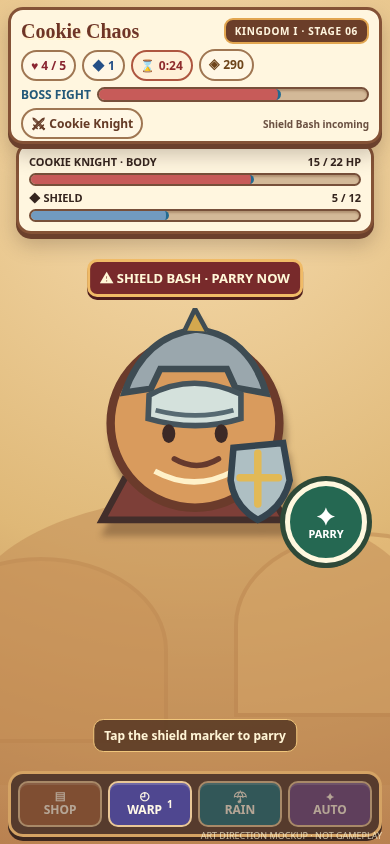
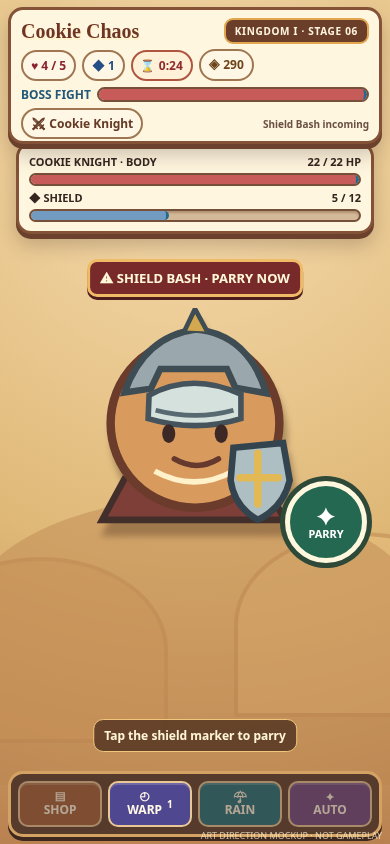
feat: redesign Cookie Kingdom game assets

Changed region(s): [[0.6462, 0.1848, 0.9231, 0.2156], [0.7077, 0.0924, 0.9538, 0.1232]]

diff --git a/docs/m10-a/preview.html b/docs/m10-a/preview.html
@@ -40,7 +40,7 @@
   </div><div class="shop-tip">Selected tab is raised. Unavailable actions show the reason; the shop pauses gameplay.</div></div><span class="footer-note">ART DIRECTION MOCKUP · NOT GAMEPLAY</span>
 </section>
 
-<section class="screen mobile boss" data-screen="boss-mobile"><div class="world"><div class="hill one"></div><div class="hill two"></div></div><header class="ui hud plaque"><div class="hud-top"><div class="brand">Cookie Chaos</div><div class="ribbon">KINGDOM I · STAGE 06</div></div><div class="hud-stats"><span class="pill health">♥ 4 / 5</span><span class="pill shield">◆ 1</span><span class="pill timer">⌛ 0:24</span><span class="pill currency">◈ 290</span></div><div class="hud-progress"><strong>BOSS FIGHT</strong><div class="bar healthbar"><i style="width:68%"></i></div></div><div class="hud-top"><span class="pill tough">⚔ Cookie Knight</span><span class="tiny">Shield Bash incoming</span></div></header><div class="arena"><div class="boss-bars plaque"><div class="line"><span>COOKIE KNIGHT · BODY</span><span>15 / 22 HP</span></div><div class="bar healthbar"><i style="width:68%"></i></div><div class="line"><span>◆ SHIELD</span><span>5 / 12</span></div><div class="bar shieldbar"><i style="width:42%"></i></div></div><div class="telegraph">⚠ SHIELD BASH · PARRY NOW</div><svg class="boss-knight" role="img" aria-label="Cookie Knight with metal helmet and shield"><use href="#boss-knight"/></svg><div class="parry" role="button" aria-label="Parry target"><span><b>✦</b><br>PARRY</span></div></div><div class="hint">Tap the shield marker to parry</div><nav class="dock"><div class="action shop" aria-disabled="true">▤<br>SHOP</div><div class="action warp">◴<br>WARP <small>1</small></div><div class="action rain" aria-disabled="true">☂<br>RAIN</div><div class="action auto" aria-disabled="true">✦<br>AUTO</div></nav><span class="footer-note">ART DIRECTION MOCKUP · NOT GAMEPLAY</span></section>
+<section class="screen mobile boss" data-screen="boss-mobile"><div class="world"><div class="hill one"></div><div class="hill two"></div></div><header class="ui hud plaque"><div class="hud-top"><div class="brand">Cookie Chaos</div><div class="ribbon">KINGDOM I · STAGE 06</div></div><div class="hud-stats"><span class="pill health">♥ 4 / 5</span><span class="pill shield">◆ 1</span><span class="pill timer">⌛ 0:24</span><span class="pill currency">◈ 290</span></div><div class="hud-progress"><strong>BOSS FIGHT</strong><div class="bar healthbar"><i style="width:100%"></i></div></div><div class="hud-top"><span class="pill tough">⚔ Cookie Knight</span><span class="tiny">Shield Bash incoming</span></div></header><div class="arena"><div class="boss-bars plaque"><div class="line"><span>COOKIE KNIGHT · BODY</span><span>22 / 22 HP</span></div><div class="bar healthbar"><i style="width:100%"></i></div><div class="line"><span>◆ SHIELD</span><span>5 / 12</span></div><div class="bar shieldbar"><i style="width:42%"></i></div></div><div class="telegraph">⚠ SHIELD BASH · PARRY NOW</div><svg class="boss-knight" role="img" aria-label="Cookie Knight with metal helmet and shield"><use href="#boss-knight"/></svg><div class="parry" role="button" aria-label="Parry target"><span><b>✦</b><br>PARRY</span></div></div><div class="hint">Tap the shield marker to parry</div><nav class="dock"><div class="action shop" aria-disabled="true">▤<br>SHOP</div><div class="action warp">◴<br>WARP <small>1</small></div><div class="action rain" aria-disabled="true">☂<br>RAIN</div><div class="action auto" aria-disabled="true">✦<br>AUTO</div></nav><span class="footer-note">ART DIRECTION MOCKUP · NOT GAMEPLAY</span></section>
 
 <section class="screen desktop" data-screen="gameplay-desktop"><div class="play"><div class="world"><div class="hill one"></div><div class="hill two"></div><span class="spark" style="left:11%;top:26%">✧</span><span class="spark" style="left:66%;top:35%">✦</span></div><header class="ui hud plaque"><div class="hud-top"><div class="brand">Cookie Chaos</div><div class="ribbon">KINGDOM I · STAGE 09</div><span class="pill timer">⌛ 0:42</span></div><div class="hud-stats"><span class="pill health">♥ 4 / 5</span><span class="pill shield">◆ 1</span><span class="pill currency">◈ 100 Cookies</span><span class="pill tough">✦ Tough 1 / 2</span></div><div class="hud-progress"><strong>48 / 63 STAGE POINTS</strong><div class="bar"><i style="width:76%"></i></div><span class="tiny">Break 1 more Tough Cookie</span></div></header><div class="cookie normal a"><svg><use href="#cookie-normal"/></svg></div><div class="cookie golden"><svg><use href="#cookie-golden"/></svg></div><div class="cookie hard"><svg><use href="#cookie-hard"/></svg></div><div class="cookie reinforced"><svg><use href="#cookie-reinforced"/></svg></div><div class="cookie titan"><svg><use href="#cookie-titan"/></svg></div><div class="cookie bomb"><svg><use href="#cookie-bomb"/></svg></div><span class="cookie-label bombnote">! AVOID</span><div class="hint">+8 SP · +112 Cookies</div><nav class="dock"><div class="action shop">▤ SHOP</div><div class="action rain">☂ RAIN <small>2</small></div><div class="action auto">✦ AUTO <small>1</small></div><div class="action warp">◴ WARP <small>1</small></div></nav></div><aside class="shop-panel"><div class="shop-head"><div><div class="ribbon" style="display:inline-block;margin-bottom:4px">KINGDOM MARKET</div><div class="brand">Upgrades</div></div><button class="close" aria-label="Collapse shop">−</button></div><div class="shop-balance"><span>◈ COOKIES</span><span>100</span></div><div class="tabs"><button class="tab selected">OFFENSE</button><button class="tab">DEFENSE</button><button class="tab">SPECIAL</button></div><div class="shop-list"><div class="upgrade"><div class="upgrade-icon">◈</div><div class="upgrade-main"><strong>Cookie Value · Lv 5</strong><span>6 Cookies / Normal</span></div><button class="buy need" disabled>NEED<br>218 ◈</button></div><div class="upgrade"><div class="upgrade-icon">◎</div><div class="upgrade-main"><strong>Cookie Size · Lv 2</strong><span>48 px radius</span></div><button class="buy">36 ◈</button></div><div class="upgrade"><div class="upgrade-icon">↝</div><div class="upgrade-main"><strong>Spawn Speed · Lv 3</strong><span>1.2 s / spawn</span></div><button class="buy">68 ◈</button></div><div class="upgrade"><div class="upgrade-icon">⚔</div><div class="upgrade-main"><strong>Click Power · Lv 1</strong><span>2 damage / tap</span></div><button class="buy">38 ◈</button></div><div class="upgrade locked"><div class="upgrade-icon">✧</div><div class="upgrade-main"><strong>Golden Luck · Lv 0</strong><span>Golden chance 5%</span></div><button class="buy">40 ◈</button></div></div><div class="shop-tip">Progress and wallet are distinct. Cookies remain outside this shop panel.</div></aside><span class="footer-note">ART DIRECTION MOCKUP · NOT GAMEPLAY</span></section>
 

diff --git a/src/main.ts b/src/main.ts
@@ -22,6 +22,7 @@ class GameScene extends Phaser.Scene {
   private abilities = new AbilityManager();
   private boss: BossManager | null = null;
   private bossAttack: BossAttackController | null = null;
+  private background!: Phaser.GameObjects.Image;
   private bossSprite?: Phaser.GameObjects.Image;
   private parryTarget!: Phaser.GameObjects.Arc;
   private parryLabel!: Phaser.GameObjects.Text;
@@ -84,14 +85,19 @@ class GameScene extends Phaser.Scene {
   constructor() { super('game'); }
 
   preload() {
+    this.load.svg('kingdom-background', '/kingdom-background.svg', { width: 1280, height: 720 });
+    this.load.svg('boss-arena', '/boss-arena.svg', { width: 1280, height: 720 });
     for (const type of Object.values(COOKIE_TYPES)) this.load.svg(type.texture, type.asset, { width: 96, height: 96 });
     this.load.svg('hard-cracks', '/hard-cracks.svg', { width: 96, height: 96 });
     for (const boss of Object.values(BOSSES)) this.load.svg(boss.texture, `/${boss.texture}.svg`, { width: 128, height: 128 });
     this.load.svg('boss-cookieng-golden', '/boss-cookieng-golden.svg', { width: 128, height: 128 });
+    for (const variant of ['boss-barbarian-exposed', 'boss-knight-exposed', 'boss-berserker-rage'])
+      this.load.svg(variant, `/${variant}.svg`, { width: 128, height: 128 });
   }
 
   create() {
     this.cameras.main.setBackgroundColor('#fff2d4');
+    this.background = this.add.image(0, 0, 'kingdom-background').setDepth(-10);
     const heading = { fontFamily: 'system-ui, sans-serif', fontStyle: 'bold', color: '#713b20' };
     this.titleText = this.add.text(20, 6, 'Cookie Chaos', { ...heading, fontSize: '26px' }).setDepth(2);
     this.balanceText = this.add.text(20, 37, '', { ...heading, fontSize: '20px' }).setDepth(2);
@@ -375,7 +381,7 @@ class GameScene extends Phaser.Scene {
     if (this.boss.config.id === 'barbarian') {
       this.bossGuard = this.add.circle(0, 0, 57).setStrokeStyle(5, 0x8a6e58).setDepth(1);
     } else if (this.boss.config.id === 'knight') {
-      this.bossGuard = this.add.ellipse(0, 0, 84, 72, 0x8299ae, 0.94).setStrokeStyle(4, 0x4f6170).setDepth(3);
+      this.bossGuard = this.add.ellipse(0, 0, 36, 50, 0xdde6e6, 0.28).setStrokeStyle(2, 0x4f6170).setDepth(3);
     }
     this.shownSeconds = -1;
     this.updateHud();
@@ -396,7 +402,9 @@ class GameScene extends Phaser.Scene {
       this.bossGuard?.destroy();
       this.bossGuard = undefined;
       if (hit.phase === 'GOLDEN') this.bossSprite.setTexture('boss-cookieng-golden');
-      if (hit.phase === 'RAGE') this.bossSprite.setTint(0xff8585);
+      if (hit.phase === 'VULNERABLE') this.bossSprite.setTexture('boss-barbarian-exposed');
+      if (hit.phase === 'BODY' && this.boss.config.id === 'knight') this.bossSprite.setTexture('boss-knight-exposed');
+      if (hit.phase === 'RAGE') this.bossSprite.setTexture('boss-berserker-rage');
       if (this.scale.height >= 480) this.floatText({ x: position.x, y: position.y - 36 },
         hit.phase === 'VULNERABLE' ? 'ARMOR BROKEN · 2×' : hit.phase === 'GOLDEN' ? 'GOLDEN FORM' :
           hit.phase === 'RAGE' ? 'RAGE!' : hit.phase === 'BODY' && this.boss.config.id === 'barbarian' ?
@@ -423,7 +431,8 @@ class GameScene extends Phaser.Scene {
     const y = (RULES.hudHeight + bottom) / 2;
     this.bossSprite.setPosition(x, y).setScale(radius / 60);
     if (this.bossGuard) {
-      this.bossGuard.setPosition(x, this.boss.config.id === 'knight' ? y + radius * 0.25 : y).setScale(radius / 60);
+      this.bossGuard.setPosition(this.boss.config.id === 'knight' ? x + radius * 0.48 : x,
+        this.boss.config.id === 'knight' ? y + radius * 0.25 : y).setScale(radius / 60);
     }
     const parryX = Math.max(30, x - radius - 34);
     this.parryTarget.setPosition(parryX, y);
@@ -624,6 +633,8 @@ class GameScene extends Phaser.Scene {
     const height = this.scale.height;
     const side = this.sideShop;
     const bossFight = this.stage.status === 'BOSS_FIGHT';
+    this.background.setTexture(bossFight ? 'boss-arena' : 'kingdom-background')
+      .setPosition(width / 2, height / 2).setScale(Math.max(width / 1280, height / 720));
     const playRight = bossFight ? width : side ? width - 312 : width;
     const compact = !side && height < 420;
     const visible = (side || this.shopOpen) && !bossFight;

diff --git a/docs/m10-b/README.md b/docs/m10-b/README.md
@@ -1,0 +1,31 @@
+# M10 · Checkpoint B — asset review
+
+Asset integrati nel gioco Phaser; nessuna regola di gioco cambiata. La [direzione artistica](../art-direction.md) registra palette, correzioni della review A e convenzioni SVG.
+
+## Set consegnato
+
+| Gruppo | File | ViewBox | Uso |
+|---|---|---:|---|
+| Cookie | `cookie.svg`, `hard-cookie.svg`, `golden-cookie.svg`, `reinforced-cookie.svg`, `titan-cookie.svg`, `bomb-cookie.svg` | 96×96 | Texture Phaser originali, stesse chiavi |
+| Crepe | `hard-cracks.svg` | 96×96 | Overlay Tough esistente, contrasto aumentato |
+| Boss | `boss-barbarian.svg`, `boss-knight.svg`, `boss-berserker.svg`, `boss-cookieng.svg`, `boss-cookieng-golden.svg` | 128×128 | Texture Phaser originali, stesse chiavi |
+| Fasi boss | `boss-barbarian-exposed.svg`, `boss-knight-exposed.svg`, `boss-berserker-rage.svg` | 128×128 | Cambio texture sulla transizione già prodotta dal modello |
+| Mondo | `kingdom-background.svg`, `boss-arena.svg` | 1280×720 | Sfondi statici scalati con cover, dietro gli oggetti interattivi |
+| Icone | 12 SVG in `public/icons/` | 48×48 | Preparati per C; non usati nell'HUD di B |
+
+Gli SVG non contengono script, font, filtri o URL remoti. Rasterizzazione a 4×: raggio visibile cookie 47,0–47,5 px entro hitbox 48; boss 59,2–59,9 px entro hitbox 60. Phaser mantiene scala, input e geometria esistenti. La variante esposta del Knight appare soltanto dopo la rottura dello scudo; la preview A ora mostra corpo 22/22 con scudo 5/12.
+
+## Browser smoke reale
+
+Chrome headless su Vite, DPR 1. Screenshot reali in [`screenshots/`](screenshots/). I boss e i tipi speciali sono stati raggiunti tramite un hook temporaneo **solo DEV**, rimosso prima dei quality gate e del commit. Gli screenshot non rappresentano una partita umana completa.
+
+Confronto: rispetto alla [raccolta M9 a 390×844](../m10-a/current/gameplay-390x844.png), lo sfondo B definisce un luogo senza nascondere cookie e testi; rispetto ai [Tough/Bomb M9](../m10-a/current/bomb-tough-390x844.png), sagome, miccia e armature B restano più riconoscibili. HUD e shop rimangono quelli di M9, per scelta di scope.
+
+- Viewport: [320×320](screenshots/gameplay-320x320.png), [360×640](screenshots/gameplay-360x640.png), [390×844](screenshots/gameplay-390x844.png), [568×320](screenshots/gameplay-568x320.png), [1280×720](screenshots/gameplay-1280x720.png).
+- Sei tipi insieme: [raccolta](screenshots/all-cookie-types-390x844.png). Damage state: [Titan 5/9 HP](screenshots/titan-damaged-390x844.png).
+- Boss: [Barbarian](screenshots/barbarian-390x844.png) / [armatura rotta](screenshots/barbarian-exposed-390x844.png); [Knight](screenshots/knight-390x844.png) / [scudo 5/12](screenshots/knight-shield-damaged-390x844.png) / [esposto](screenshots/knight-exposed-390x844.png); [Berserker](screenshots/berserker-390x844.png) / [Rage](screenshots/berserker-rage-390x844.png); [Cookieng](screenshots/cookieng-390x844.png) / [Golden](screenshots/cookieng-golden-390x844.png); [Knight 568×320](screenshots/knight-568x320.png).
+- Verificato caricamento delle 16 texture principali più overlay crepe, sfondo corretto nelle due fasi e nessuna eccezione JavaScript/errore console nei percorsi catturati. Click mouse e tap touch sul primo Normal: sprite rimosso, balance `1`, Stage Points `1`. Le crepe seguono gli HP del modello.
+
+## Dimensione e limiti
+
+Gli SVG sorgente passano da 10.118 B (12 file) a 22.757 B (29 file), +12.639 B. Build JS minificata: 1.260,02 → 1.260,75 kB, +0,73 kB; gzip 346,65 → 346,81 kB, +0,16 kB. Warning Vite sopra 500 kB già presente prima di B. Gli sfondi rasterizzati richiedono memoria GPU; ottimizzazione e misura prestazionale completa restano nel checkpoint E. L'HUD e lo shop di produzione non sono stati ridisegnati in B.

diff --git a/docs/art-direction.md b/docs/art-direction.md
@@ -1,6 +1,6 @@
 # Cookie Chaos · Checkpoint A — art direction
 
-**Status:** proposta da approvare. I mockup sono statici: non sostituiscono la UI Phaser, non cambiano regole, dimensioni logiche, asset o hitbox. Le cifre nelle scene rappresentano uno stato illustrativo, non una nuova configurazione di gameplay.
+**Status:** Checkpoint A approvato; Checkpoint B in revisione. I mockup sono statici: non sostituiscono la UI Phaser, non cambiano regole, dimensioni logiche, asset o hitbox. Le cifre nelle scene rappresentano uno stato illustrativo, non una nuova configurazione di gameplay.
 
 ## 1. Visione
 
@@ -161,4 +161,15 @@ I quattro PNG sono screenshot effettivi della preview acquisiti con Chrome headl
 4. Confermare font di sistema offline o chiedere un font locale specifico con licenza da integrare più avanti.
 5. Confermare se il dock abilità deve mostrare sempre le cariche a 390×844 o collassarsi quando non disponibili.
 
-**Nessuna scelta modifica le meccaniche M1–M9.** B, C, D ed E sono fermi in attesa della revisione di A.
+**Nessuna scelta modifica le meccaniche M1–M9.** Le scelte di A sono state approvate; C, D ed E restano fermi durante B.
+
+## 15. Checkpoint B — correzioni della review A e asset
+
+- Mockup Knight corretto: con scudo `5/12`, corpo `22/22 HP` e barra corpo piena. La protezione assorbe interamente i colpi finché è attiva.
+- Hard distingue ora la propria sagoma dal Normal con bordo angolare spezzato, crosta più scura e fenditure grandi. Normal mantiene bordo morbido e gocce riconoscibili.
+- Golden usa corona a punte morbide e medaglione/stella; Titan usa ottagono con piastre; Bomb usa miccia e grande `!`. Sagoma e segno restano leggibili senza colore.
+- Le sei texture cookie mantengono `viewBox="0 0 96 96"`. I boss mantengono `viewBox="0 0 128 128"`. Rasterizzate a 4×, le sagome occupano raggi 47,0–47,5 px e 59,2–59,9 px: restano entro le hitbox circolari di raggio 48 e 60, con tolleranza touch inferiore a 1 px per i cookie. Raggi logici, scala, `SpawnManager`, input e regole restano invariati.
+- Le texture di fase aggiunte sono `boss-barbarian-exposed.svg`, `boss-knight-exposed.svg` e `boss-berserker-rage.svg`. Il gioco cambia soltanto texture quando il modello segnala una fase; `boss-cookieng-golden.svg` conserva la propria chiave. Il guard dello scudo Knight è reso leggero e spostato sullo scudo illustrato, per non nascondere il viso.
+- `kingdom-background.svg` e `boss-arena.svg` hanno `viewBox="0 0 1280 720"`; Phaser li scala con modalità cover, senza stirarli. Le decorazioni hanno basso contrasto e restano dietro ai GameObjects interattivi.
+- `public/icons/` contiene 12 SVG da 48×48, pronti per l'HUD del checkpoint C. Non sono ancora caricati né mostrati nella UI di produzione.
+- SVG locali validati come XML, senza font, filtri, script o dipendenze remote. Dimensione totale dei 29 SVG: **22.757 byte**; il set precedente era **10.118 byte** in 12 file. Incremento degli asset sorgente: **12.639 byte**. Lo sfondo rasterizzato occupa memoria GPU; la verifica prestazionale completa è riservata al checkpoint E.
